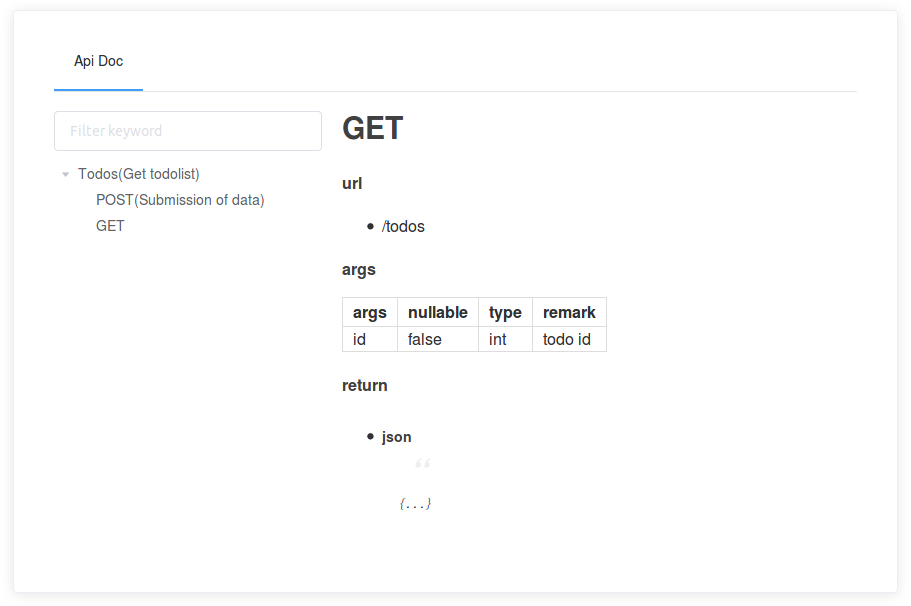
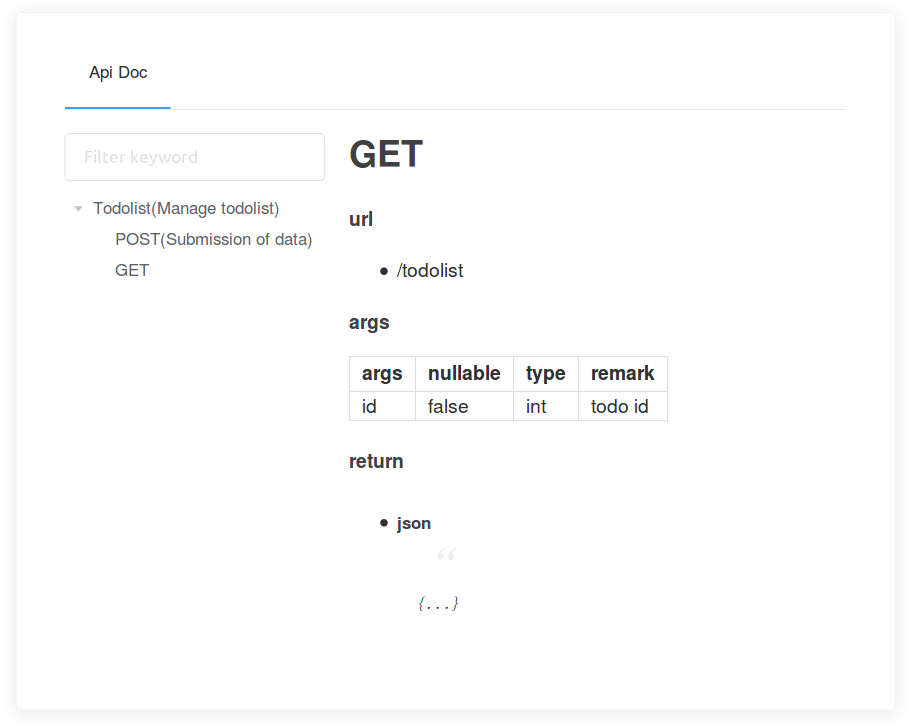
fix: bug fix

diff --git a/flask_docs/__init__.py b/flask_docs/__init__.py
@@ -126,111 +126,113 @@ class ApiDoc(object):
 
                 @api_doc.route('/', methods=['GET'])
                 def index():
+
                     dataDict = {}
 
                     url_map = app.url_map.iter_rules()
                     restful_api_class = get_all_subclasses(Resource)
 
-                    for rule in url_map:
-                        dataList = []
-                        name = str(rule).split('/')[1].split('/')[0]
-                        if name not in current_app.config[
-                                'RESTFUL_API_DOC_EXCLUDE']:
-                            for c in restful_api_class:
-                                if str(rule.endpoint).split('.')[
-                                        0] == c.__name__.lower():
+                    for c in restful_api_class:
+                        try:
+                            dataList = []
+                            name = c.__name__.capitalize()
+                            if name not in current_app.config[
+                                    'RESTFUL_API_DOC_EXCLUDE']:
+                                for rule in url_map:
+                                    if c.endpoint in str(rule.endpoint).split('.'):
 
-                                    c_doc = self.get_api_doc(c)
+                                        c_doc = self.get_api_doc(c)
 
-                                    try:
-                                        if c_doc != 'No doc found for this Api':
-                                            name = name.capitalize(
-                                            ) + '(' + c_doc.split(
-                                                '\n\n')[0].split('\n')[0].strip(
-                                                    ' ').strip('\n\n').strip(
-                                                        ' ').strip('\n').strip(
-                                                            ' ') + ')'
-                                    except Exception as e:
-                                        name = name.capitalize()
+                                        try:
+                                            if c_doc != 'No doc found for this Api':
+                                                name = name.capitalize(
+                                                ) + '(' + c_doc.split(
+                                                    '\n\n')[0].split('\n')[0].strip(
+                                                        ' ').strip('\n\n').strip(
+                                                            ' ').strip('\n').strip(
+                                                                ' ') + ')'
+                                        except Exception as e:
+                                            name = name.capitalize()
 
-                                    for m in c.methods:
-                                        if m in [
-                                                'GET', 'POST', 'PUT', 'DELETE'
-                                        ]:
-                                            api = {
-                                                'name': '',
-                                                'name_extra': '',
-                                                'url': '',
-                                                'doc': '',
-                                                'doc_md': '',
-                                                'router': name,
-                                                'api_type': 'restful_api'
-                                            }
-
-                                            try:
-                                                api['name'] = m
-
-                                                api['url'] = str(rule)
-
-                                                doc = eval(
-                                                    'c.{}.__doc__'.format(
-                                                        m.lower()))
-
-                                                doc = doc if doc else 'No doc found for this Api'
+                                        for m in c.methods:
+                                            if m in [
+                                                    'GET', 'POST', 'PUT', 'DELETE'
+                                            ]:
+                                                api = {
+                                                    'name': '',
+                                                    'name_extra': '',
+                                                    'url': '',
+                                                    'doc': '',
+                                                    'doc_md': '',
+                                                    'router': name,
+                                                    'api_type': 'restful_api'
+                                                }
 
                                                 try:
-                                                    api['doc'] = doc.split(
-                                                        '@@@')[0]
-                                                except Exception as e:
-                                                    api['doc'] = 'No doc found for this Api'
+                                                    api['name'] = m
 
-                                                if api['doc'] != 'No doc found for this Api':
-                                                    api['name_extra'] = api[
-                                                        'doc'].split(
-                                                            '\n\n'
-                                                        )[0].split(
-                                                            '\n'
-                                                        )[0].strip(' ').strip(
-                                                            '\n\n'
-                                                        ).strip(' ').strip(
-                                                            '\n').strip(' ')
+                                                    api['url'] = str(rule)
 
-                                                api['doc'] = api[
-                                                    'doc'].replace(
-                                                        api['name_extra'], '',
-                                                        1).rstrip(' ').strip(
-                                                            '\n\n'
-                                                        ).rstrip(' ').strip(
-                                                            '\n').rstrip(' ')
+                                                    doc = eval(
+                                                        'c.{}.__doc__'.format(
+                                                            m.lower()))
 
-                                                if api['doc'] == '':
-                                                    api['doc'] = 'No doc found for this Api'
+                                                    doc = doc if doc else 'No doc found for this Api'
 
-                                                try:
-                                                    api['doc_md'] = doc.split(
-                                                        '@@@')[1].strip(' ')
                                                     try:
-                                                        space_count = doc.split(
-                                                            '@@@'
-                                                        )[0].split('\n')[
-                                                            -1].count(' ')
+                                                        api['doc'] = doc.split(
+                                                            '@@@')[0]
                                                     except Exception as e:
-                                                        space_count = 0
-                                                    api['doc_md'] = '\n'.join(
-                                                        api['doc_md'].split(
-                                                            '\n' +
-                                                            ' ' * space_count))
-                                                except Exception as e:
-                                                    api['doc_md'] = ''
+                                                        api['doc'] = 'No doc found for this Api'
 
-                                            except Exception as e:
-                                                pass
-                                            else:
-                                                dataList.append(api)
-                                    break
-                        if dataList != []:
-                            dataDict[name] = {'children': []}
-                            dataDict[name]['children'] = dataList
+                                                    if api['doc'] != 'No doc found for this Api':
+                                                        api['name_extra'] = api[
+                                                            'doc'].split(
+                                                                '\n\n'
+                                                            )[0].split(
+                                                                '\n'
+                                                            )[0].strip(' ').strip(
+                                                                '\n\n'
+                                                            ).strip(' ').strip(
+                                                                '\n').strip(' ')
+
+                                                    api['doc'] = api[
+                                                        'doc'].replace(
+                                                            api['name_extra'], '',
+                                                            1).rstrip(' ').strip(
+                                                                '\n\n'
+                                                            ).rstrip(' ').strip(
+                                                                '\n').rstrip(' ')
+
+                                                    if api['doc'] == '':
+                                                        api['doc'] = 'No doc found for this Api'
+
+                                                    try:
+                                                        api['doc_md'] = doc.split(
+                                                            '@@@')[1].strip(' ')
+                                                        try:
+                                                            space_count = doc.split(
+                                                                '@@@'
+                                                            )[0].split('\n')[
+                                                                -1].count(' ')
+                                                        except Exception as e:
+                                                            space_count = 0
+                                                        api['doc_md'] = '\n'.join(
+                                                            api['doc_md'].split(
+                                                                '\n' +
+                                                                ' ' * space_count))
+                                                    except Exception as e:
+                                                        api['doc_md'] = ''
+
+                                                except Exception as e:
+                                                    pass
+                                                else:
+                                                    dataList.append(api)
+                            if dataList != []:
+                                dataDict[name] = {'children': []}
+                                dataDict[name]['children'] = dataList
+                        except Exception as e:
+                            pass
 
                     for f in current_app.config['API_DOC_MEMBER']:
                         dataList = []

diff --git a/examples/sample_app_restful/sample_app_restful.py b/examples/sample_app_restful/sample_app_restful.py
@@ -21,7 +21,7 @@ ApiDoc(app)
 
 
 class TodoList(Resource):
-    """Get todolist"""
+    """Manage todolist"""
 
     def post(self):
         """Submission of data
@@ -52,7 +52,7 @@ class TodoList(Resource):
         return {'todos': 'get todolist'}
 
 
-restful_api.add_resource(TodoList, '/todos')
+restful_api.add_resource(TodoList, '/todolist')
 
 if __name__ == '__main__':
     app.run(host='0.0.0.0', port=5000, debug=True)

diff --git a/setup.py b/setup.py
@@ -9,7 +9,7 @@ def read(fname):
 
 setup(
     name='Flask-Docs',
-    version='0.0.3',
+    version='0.0.4',
     url='https://github.com/kwkwc/flask-docs',
     license='MIT',
     author='kwkw',
